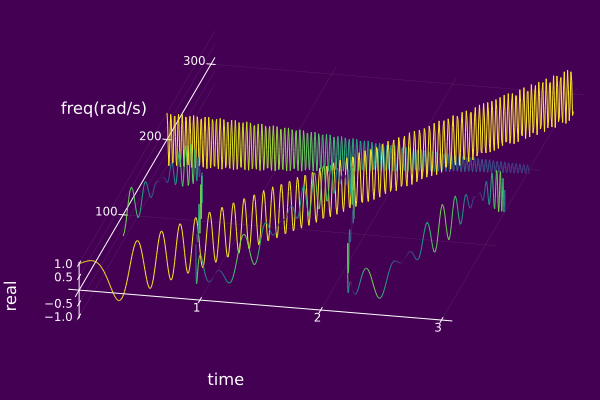
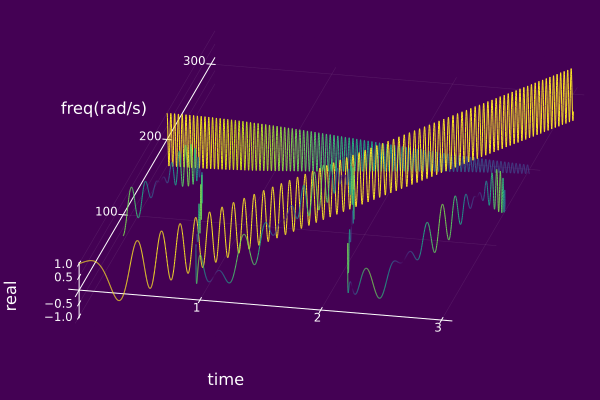
docs

diff --git a/docs/src/basics/spectra.md b/docs/src/basics/spectra.md
@@ -27,10 +27,10 @@ plot(𝑆; timeaxis=0.0:0.001:3.0)
 We can obtain a 2D IS plot via an orthographic projection of the 3D IS
 ```@example
 using ISA, Plots
-𝐶₀ = AMFMtriplet(t->exp(-t^2),t->200.0,0.0)
+𝐶₀ = AMFMtriplet(t->exp(-t^2/5),t->200.0,0.0)
 𝐶₁ = AMFMtriplet(t->1.0,t->100*t,0.1)
-𝐶₂ = AMFMtriplet(t->0.8*cos(2t),t->100 + 70.5*sin(5t),π)
+𝐶₂ = AMFMtriplet(t->0.8*cos(11t),t->100 + 70.5*sin(5t),π)
 𝑆 = compSet([𝐶₀,𝐶₁,𝐶₂])
-plot(𝑆; timeaxis=0.0:0.001:3.0, camera=(0,90), zlabel="", zticks=:false,  left_margin=15Plots.mm, margin=5Plots.mm, yrotation = 90)
+plot(𝑆; timeaxis=0.0:0.001:3.0,camera=(0,90), zlabel="", zticks=:false,  left_margin=15Plots.mm, margin=5Plots.mm, yrotation = 90)
 ```
 ![](https://raw.githubusercontent.com/NMSU-ISA/ISA/master/docs/src/assets/IS_ex2.png)
